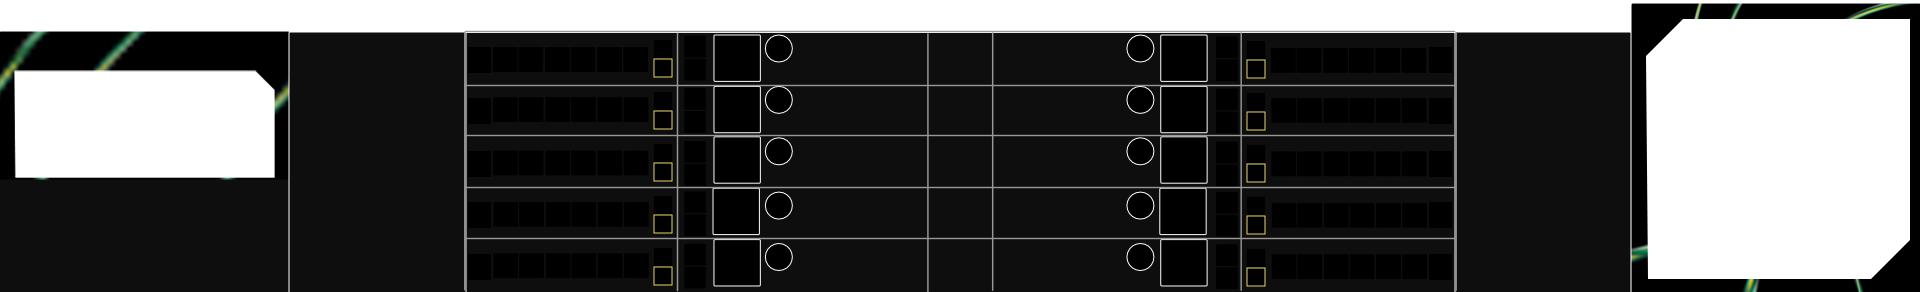
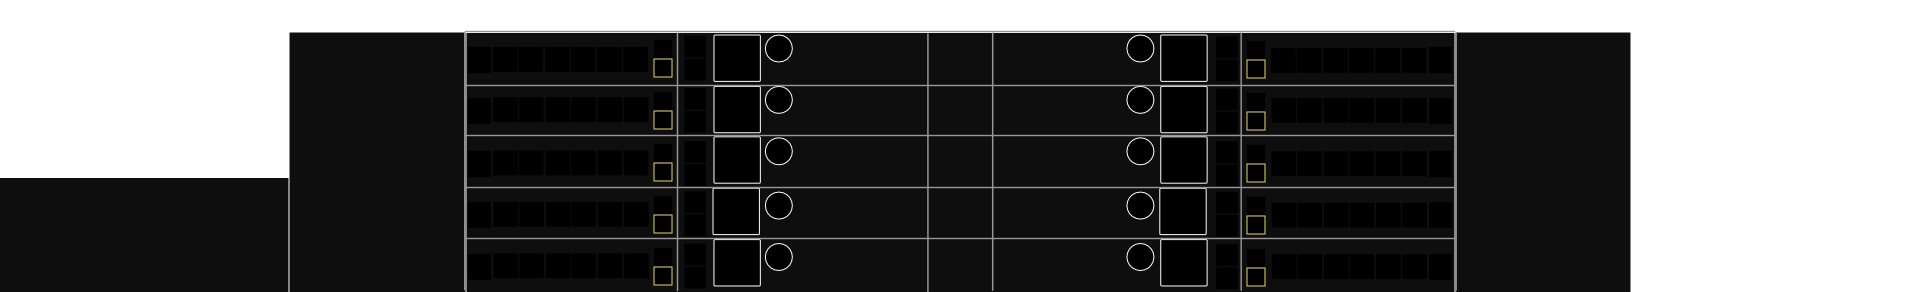
Bottom third: background loop in the lined frames
The lined frames round the champion info (left) and the minimap (right)
now play the HUD's background loop in their shape, like the HUD bar,
tinted in that side's colour and at the same speed and brightness. The
static lines from the PSD stand in when there's no loop, or with the
SCC 2026 - Static profile.

tools/scoreboard_from_psd.py now cuts those two layers out of frame.png
into loop_left.png and loop_right.png (layout.json "loop_areas").

Claude-Session: https://claude.ai/code/session_01AjD747MWhgiPx6mC5GgjT8

Changed region(s): [[0.8438, 0.0, 1.0, 1.0], [0.0, 0.0925, 0.1562, 0.6164]]

diff --git a/web/overlay_scoreboard.js b/web/overlay_scoreboard.js
@@ -6,6 +6,10 @@
 // Positions come from the PSD (tools/scoreboard_from_psd.py ->
 // assets/scoreboard/layout.json). Drawn under the webcams.
 //
+// The lined frames round the champion info and the minimap play the HUD's
+// background loop in their shape, tinted in that side's colour; the static
+// lines stand in until there is one (overlay.html's setVideo drives them).
+//
 // Riot's live game data has no health, mana or other players' gold: the
 // health bar empties while a player is dead, the level bar fills to level 18,
 // and gold is the HUD's estimate.
@@ -39,7 +43,12 @@
     #scoreboard .bar.right { background-position: right; }
     #scoreboard .t { position: absolute; white-space: nowrap; line-height: 1; }
     #scoreboard .row.dead .t.name { opacity: .55; }
-    #scoreboard .diff { font-weight: 600; }`;
+    #scoreboard .diff { font-weight: 600; }
+    #scoreboard .loop { position: absolute; }
+    #scoreboard .loop img, #scoreboard .loop .wrap { position: absolute; inset: 0; width: 100%; height: 100%; }
+    #scoreboard .loop .wrap { display: none; isolation: isolate; mask-size: 100% 100%; -webkit-mask-size: 100% 100%; }
+    #scoreboard .loop video { display: block; width: 100%; height: 100%; object-fit: cover; }
+    #scoreboard .loop .tint { position: absolute; inset: 0; mix-blend-mode: multiply; }`;
   document.head.appendChild(style);
 
   let layout = null, built = false;
@@ -64,7 +73,22 @@
   const setSrc = (img, src) => { if ((img.getAttribute("src") || "") !== (src || "")) img.setAttribute("src", src || ""); };
   const setText = (n, v) => { v = v == null ? "" : String(v); if (n.textContent !== v) n.textContent = v; };
 
+  // The background loop areas, for overlay.html: [{video, tint, still, side}].
+  window.SCOREBOARD_LOOPS = [];
+
   function build() {
+    for (const a of layout.loop_areas || []) {
+      const box = place(el("div", "loop", layer), a.rect);
+      const still = el("img", "", box);
+      still.src = BASE + a.src;
+      const wrap = el("div", "wrap", box);
+      const m = `url("${BASE}${a.src}")`;
+      Object.assign(wrap.style, { maskImage: m, webkitMaskImage: m });
+      const video = el("video", "", wrap);
+      video.muted = video.loop = video.autoplay = video.playsInline = true;
+      const tint = el("div", "tint", wrap);
+      window.SCOREBOARD_LOOPS.push({ video, tint, still, side: a.side });
+    }
     const frame = el("img", "frame", layer);
     frame.src = BASE + "frame.png";
     frame.style.top = layout.top + "px";
@@ -145,6 +169,10 @@
       setText(row.vision, here ? p.vision : "");
     });
     const cfg = s.config || {};
+    for (const l of window.SCOREBOARD_LOOPS) {
+      const c = lighten((cfg[l.side] || {}).color, .35);
+      if (l.tint.dataset.c !== c) { l.tint.dataset.c = c; l.tint.style.background = c; }
+    }
     diffs.forEach((n, i) => {
       const d = sb.gold_diff[i] || 0;
       const lead = Math.abs(d) >= 100 ? (d > 0 ? "left" : "right") : "";

diff --git a/web/overlay.html b/web/overlay.html
@@ -446,9 +446,28 @@ function drawTimers(f, enabled, nextDragon) {
 // Background video: plays the file chosen in the control panel at the chosen
 // speed. Until there is one (or if it won't play), elements marked
 // hideWithVideo (the static lines) stand in for it.
+// The bottom third's loop areas (overlay_scoreboard.js) play the same loop,
+// but only with a profile that has one.
+function allVideos() {
+  if (!videos.length) {
+    for (const { video: v } of window.SCOREBOARD_LOOPS || []) {
+      if (v.dataset.src) { delete v.dataset.src; v.removeAttribute("src"); v.load(); }
+    }
+    return videos;
+  }
+  for (const l of window.SCOREBOARD_LOOPS || []) {
+    if (!l.video.tint) {
+      l.video.tint = l.tint;
+      l.video.addEventListener("error", () => { l.video.dataset.failed = "1"; showVideo(); });
+      l.video.addEventListener("playing", showVideo);
+    }
+  }
+  return videos.concat((window.SCOREBOARD_LOOPS || []).map(l => l.video));
+}
+
 function setVideo(src, speed, tinted, brightness) {
   const b = Math.min(3, Math.max(0, Number(brightness ?? 1)));
-  for (const v of videos) {
+  for (const v of allVideos()) {
     v.parentElement.style.filter = b === 1 ? "" : `brightness(${b})`;
     v.tint.style.display = tinted ? "" : "none";
     v.style.filter = tinted ? "grayscale(1) brightness(1.6)" : "";
@@ -468,6 +487,11 @@ function showVideo() {
   const active = videos.some(v => v.dataset.src && !v.dataset.failed);
   for (const v of videos) v.parentElement.style.display = v.dataset.src && !v.dataset.failed ? "block" : "none";
   for (const n of videoStandIns) n.style.display = active ? "none" : "";
+  for (const l of window.SCOREBOARD_LOOPS || []) {
+    const on = videos.length > 0 && !!l.video.dataset.src && !l.video.dataset.failed;
+    l.video.parentElement.style.display = on ? "block" : "none";
+    l.still.style.display = on ? "none" : "";
+  }
 }
 
 // Smooth the clock between polls, but stop if the game is paused.

diff --git a/tools/scoreboard_from_psd.py b/tools/scoreboard_from_psd.py
@@ -2,6 +2,9 @@
 designer's HUD PSD (design/lol-hud-SCC27.psd):
 
     frame.png        the bottom third's artwork (y 788 down), empty slots and all
+    loop_left.png    the lined frames round the champion info (left) and the
+    loop_right.png   minimap (right): the background loop plays in their shape,
+                     and they stand in for it when there's no loop
     sponsor.png      the sponsor logo in the design, shown when no sponsors are set
     bar_hp.png ...   the resource bars, filled (the overlay crops them)
     layout.json      where every player's champion, items, spells, numbers... go
@@ -38,8 +41,10 @@ TEXT_GROUPS = {
     "kda": ("kda-left", "kda-right"),
     "vision": ("vision-score-left", "vision-score-right"),
 }
+# Lined frames that the background loop plays in, like the HUD bar's lines.
+LOOP_AREAS = {"left": "champion-info-holder", "right": "minimap-cover"}
 # Shown live, so left out of the frame.
-DYNAMIC = {"HUD BAR", "TEAM LEFT", "TEAM RIGHT", "team logo left", "team logo right", "sponsor-logo", "objs", "objs-alive"}
+DYNAMIC = {*LOOP_AREAS.values(), "HUD BAR", "TEAM LEFT", "TEAM RIGHT", "team logo left", "team logo right", "sponsor-logo", "objs", "objs-alive"}
 
 
 def walk(layer):
@@ -119,6 +124,12 @@ def main(psd_path):
     holder = next((l for l in walk(board) if l.name == "sponsor-holder"), None)
     if holder is not None:
         layout["sponsor_holder"] = rect(holder)
+    layout["loop_areas"] = []
+    for side, name in LOOP_AREAS.items():
+        layer = next((l for l in walk(board) if l.name == name), None)
+        if layer is not None:
+            layer.composite().save(os.path.join(OUT, f"loop_{side}.png"), optimize=True)
+            layout["loop_areas"].append({"side": side, "rect": rect(layer), "src": f"loop_{side}.png"})
     # The frame: everything in the bottom third that isn't filled in live.
     hide = set()
     for layer in walk(board):
